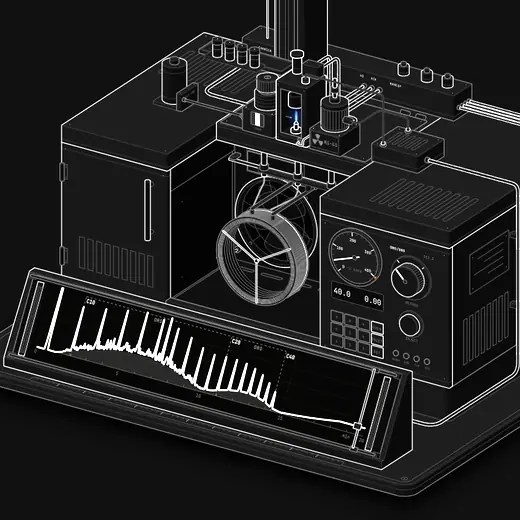
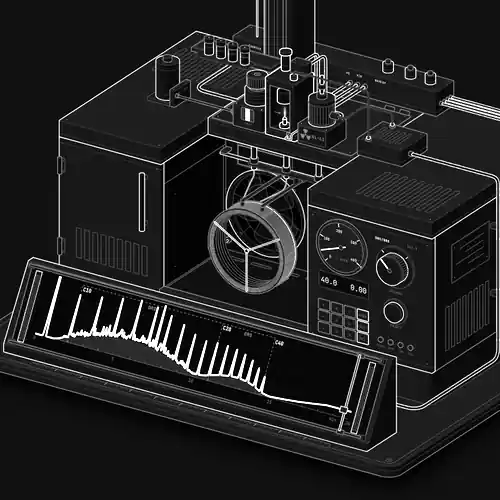
Bench poster: smaller files so the home page weight holds

diff --git a/index.html b/index.html
@@ -69,7 +69,7 @@
       <figcaption><span>Mode-locking</span><span class="bg__eq">twelve cavity modes; line up their phases and noise becomes femtosecond pulses: <b>0%</b></span></figcaption></figure>
     <p class="bg__now" data-draft="true">Now at Eurofins in Albuquerque, in the Semi-volatiles department: testing soils, waters and waste by GC (FID, ECD, GC-MS), mostly EPA 8015 and 552.3.</p>
     <figure class="bg__gc">
-      <div class="bg__gc-slot"><picture><source srcset="gc/poster-dark.webp" media="(prefers-color-scheme: dark)"><img src="gc/poster-light.webp" width="520" height="520" loading="lazy" decoding="async" alt="A benchtop gas chromatograph with its oven cut away: autosampler, inlet, capillary column coil and detector, with a chart recorder drawing a chromatogram."></picture><button class="bg__gc-open" type="button" hidden aria-haspopup="dialog">Expand</button></div>
+      <div class="bg__gc-slot"><picture><source srcset="gc/poster-dark.webp" media="(prefers-color-scheme: dark)"><img src="gc/poster-light.webp" width="500" height="500" loading="lazy" decoding="async" alt="A benchtop gas chromatograph with its oven cut away: autosampler, inlet, capillary column coil and detector, with a chart recorder drawing a chromatogram."></picture><button class="bg__gc-open" type="button" hidden aria-haspopup="dialog">Expand</button></div>
       <figcaption><span>Gas chromatograph</span><span class="bg__eq" data-draft="true">a computed figure, not instrument data: the diesel-range hump on the FID, or haloacetic acid esters on the ECD. <a href="gc/sources.html">Sources</a></span><noscript><a href="gc/gc-light.html">Open the figure</a></noscript></figcaption></figure>
   </div>
 </section>

diff --git a/review/index.html b/review/index.html
@@ -71,7 +71,7 @@
       <figcaption><span>Mode-locking</span><span class="bg__eq">twelve cavity modes; line up their phases and noise becomes femtosecond pulses: <b>0%</b></span></figcaption></figure>
     <p class="bg__now" data-draft="true">Now at Eurofins in Albuquerque, in the Semi-volatiles department: testing soils, waters and waste by GC (FID, ECD, GC-MS), mostly EPA 8015 and 552.3.</p>
     <figure class="bg__gc">
-      <div class="bg__gc-slot"><picture><source srcset="gc/poster-dark.webp" media="(prefers-color-scheme: dark)"><img src="gc/poster-light.webp" width="520" height="520" loading="lazy" decoding="async" alt="A benchtop gas chromatograph with its oven cut away: autosampler, inlet, capillary column coil and detector, with a chart recorder drawing a chromatogram."></picture><button class="bg__gc-open" type="button" hidden aria-haspopup="dialog">Expand</button></div>
+      <div class="bg__gc-slot"><picture><source srcset="gc/poster-dark.webp" media="(prefers-color-scheme: dark)"><img src="gc/poster-light.webp" width="500" height="500" loading="lazy" decoding="async" alt="A benchtop gas chromatograph with its oven cut away: autosampler, inlet, capillary column coil and detector, with a chart recorder drawing a chromatogram."></picture><button class="bg__gc-open" type="button" hidden aria-haspopup="dialog">Expand</button></div>
       <figcaption><span>Gas chromatograph</span><span class="bg__eq" data-draft="true">a computed figure, not instrument data: the diesel-range hump on the FID, or haloacetic acid esters on the ECD. <a href="gc/sources.html">Sources</a></span><noscript><a href="gc/gc-light.html">Open the figure</a></noscript></figcaption></figure>
   </div>
 </section>

diff --git a/drawing.js b/drawing.js
@@ -4,7 +4,7 @@
    adapted from dimensional-drawing by Enes Ozturk (MIT): https://github.com/enesozturk/dimensional-drawing.
    Copyright (c) 2026 Enes Ozturk. The measuring engine and the site's inks are this site's own. */
 (function () {
-  var REV = '15bdaad'; // build.py: git rev
+  var REV = '97138bb'; // build.py: git rev
   var NS = 'http://www.w3.org/2000/svg', root = document.documentElement;
   var LABEL_H = 12, CH = 6.6, PW = 1512, PH = 1046, PANEL = 640, PAD = 76, TB = 96, S2 = 738 / (944 + 152);
   var S = { on: false, dims: [], lazy: [], extras: [], held: [], vids: [] };

diff --git a/review/drawing.js b/review/drawing.js
@@ -4,7 +4,7 @@
    adapted from dimensional-drawing by Enes Ozturk (MIT): https://github.com/enesozturk/dimensional-drawing.
    Copyright (c) 2026 Enes Ozturk. The measuring engine and the site's inks are this site's own. */
 (function () {
-  var REV = '15bdaad'; // build.py: git rev
+  var REV = '97138bb'; // build.py: git rev
   var NS = 'http://www.w3.org/2000/svg', root = document.documentElement;
   var LABEL_H = 12, CH = 6.6, PW = 1512, PH = 1046, PANEL = 640, PAD = 76, TB = 96, S2 = 738 / (944 + 152);
   var S = { on: false, dims: [], lazy: [], extras: [], held: [], vids: [] };
